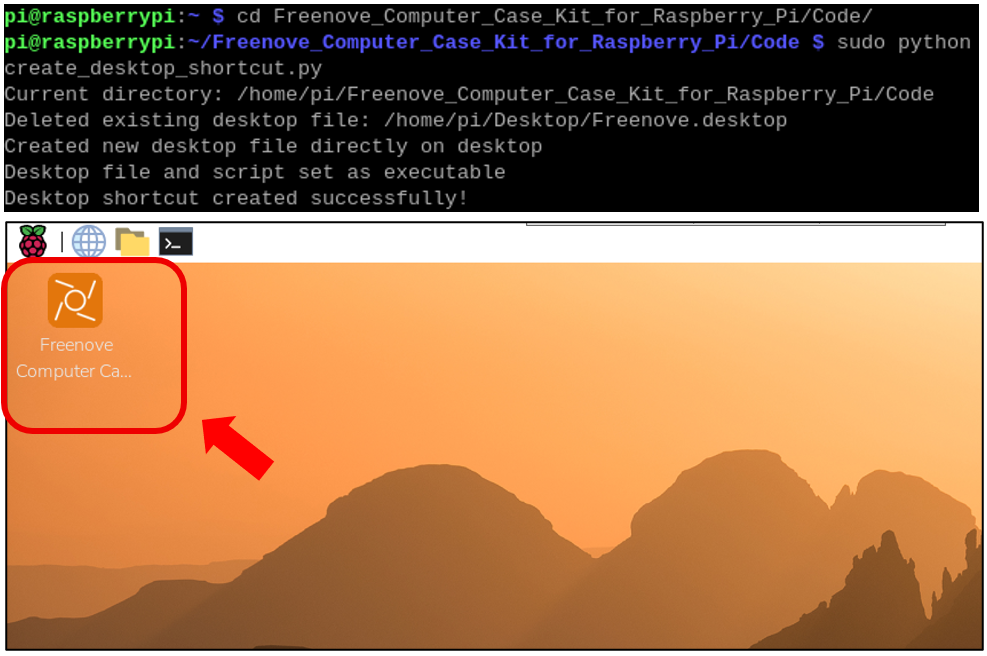
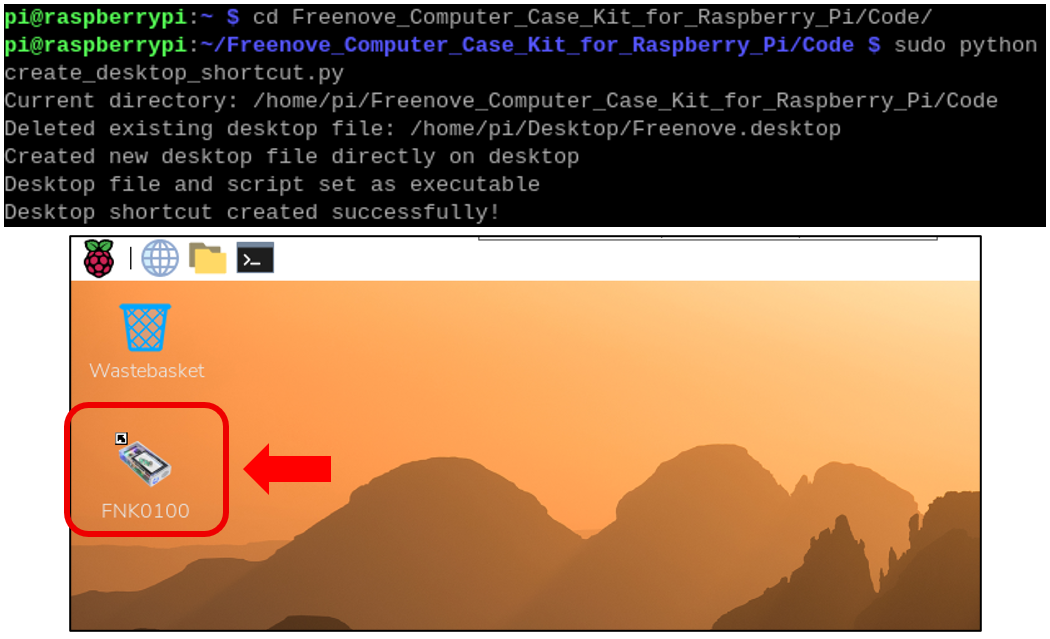
update 3_APP_Contrl

diff --git a/docs/source/fnk0100/codes/tutorial/3_APP_Control.rst b/docs/source/fnk0100/codes/tutorial/3_APP_Control.rst
@@ -117,7 +117,10 @@ In the pop-up Control Centre window, select "**Taskbar**" from the left pane. Fi
 Software Packages Update
 ============================================
 
-Run the following command on the terminal to update your Raspberry Pi's package list to the latest version.
+Run the following command on the terminal to update your Raspberry Pi's package list to the latest version. 
+
+In the latest Raspberry Pi 13 (Trixie), passwordless sudo is officially disabled. You will need to enter your user password every time you run a sudo command. Please enter your user password when prompted. (Note: The default password is "**raspberry**", please replace it with your user password.)
+
 
 .. code-block:: console
     
@@ -199,6 +202,16 @@ Run the following two commands one by one in the Raspberry Pi terminal to create
 
 :combo:`red font-bolder:Should you wish to modify the code, please ensure you back it up first to avoid potential software malfunctions caused by unintended changes.`
 
+The icon above corresponds to the command shown below.
+
+.. code-block:: console
+    
+    cd Freenove_Computer_Case_Kit_for_Raspberry_Pi
+    python app_ui.py
+
+.. image:: ../_static/imgs/3_APP_Control/Chapter03_90.png
+    :align: center
+
 3.2 About the Case Control Software
 ********************************************
 
@@ -211,10 +224,19 @@ Double click the software with Freenove logo on RPi's desktop, and a window will
 .. image:: ../_static/imgs/3_APP_Control/Chapter03_17.png
     :align: center
 
-The software interface is as shown below.
+Since passwordless sudo is disabled in Trixie, you will also be asked for your password again after reboot. Enter your user password in the pop-up terminal window.
 
-.. image:: ../_static/imgs/3_APP_Control/Chapter03_18.png
+.. image:: ../_static/imgs/3_APP_Control/Chapter03_92.png
     :align: center
+
+The software interface is shown below. The left window is the main software interface, and the right window displays debugging information.
+
+.. image:: ../_static/imgs/3_APP_Control/Chapter03_93.png
+    :align: center
+
+:combo:`red font-bolder:If you are interested in the code implementation, you can explore the files in the Freenove_Computer_Case_Kit_for_Raspberry_Pi/Code directory.`
+
+:combo:`red font-bolder:Should you wish to modify the code, please ensure you back it up first to avoid potential software malfunctions caused by unintended changes.`
 
 3.2.1 Dashboard Monitoring
 ====================================
@@ -267,7 +289,7 @@ It is set to rainbow mode by default, as shown below.
 
 There are four preset lighting modes available: **Rainbow**、 **Breathing**、 **Follow**、 **Manual**. You can select the corresponding option to switch among the modes.
 
-Note: Only in **Breathing**, **Follow**, and **Manual** modes can the color of the RGB lights be controlled using the slider below. In other modes, the color of the RGB lights cannot be adjusted. 
+Note: Only in **Breathing**, **Follow**, and **Manual** modes can the color of the RGB lights be controlled using the slider below. In other modes, the color of the RGB lights cannot be adjusted.
 
 .. image:: ../_static/imgs/3_APP_Control/Chapter03_22.png
     :align: center
@@ -568,12 +590,10 @@ This interface integrates advanced customization features, allowing you to edit 
 .. image:: ../_static/imgs/3_APP_Control/Chapter03_72.png
     :align: center
 
-Enable Terminal Display (For Debugging)
------------------------------------------------
+Disable Terminal Display & Disable sudo Password
+--------------------------------------------------
 
-Before getting started, we can configure a desktop shortcut to run the software with a visible terminal window. This will allow you to view debug messages and other code output.
-
-Steps:
+If you do not need to view the debugging information and want to close the command terminal window, follow the steps below.
 
 Open the terminal on your Raspberry Pi.
 
@@ -597,30 +617,23 @@ To revert to the default permissions, run the following command:
 .. image:: ../_static/imgs/3_APP_Control/Chapter03_74.png
     :align: center
 
-After modifying the permissions for Freenove.desktop, please follow these steps:
-
 1. Close the current upper-computer software completely.
 
 2. Double-click the Freenove software on the desktop to restart the application.
 
-3. In the pop-up window, click Open to launch the software.
+3. In the pop-up window, click **Open** to launch the software.
 
 .. image:: ../_static/imgs/3_APP_Control/Chapter03_75.png
     :align: center
 
-Change the parameter of **Terminal** from false to **ture**, save and clost the file.
+Change the parameter of **Terminal** from true to **false**, save and clost the file. Restart the software - the command terminal window will no longer open.
 
 .. image:: ../_static/imgs/3_APP_Control/Chapter03_76.png
     :align: center
 
-Double click Freenove software on the desktop, click "**Execute**" upon the pop-up window to launch it
+However, with the command terminal closed, you will have nowhere to enter your password when sudo is needed (because passwordless sudo is disabled by default in Trixie). To allow the software to run properly, you must enable passwordless sudo. To do this, open a terminal and run "**sudo raspi-config**", then select: “1 System Options” -> “S10 Admin Password” -> “No” -> “OK”.
 
-.. image:: ../_static/imgs/3_APP_Control/Chapter03_77.png
-    :align: center
-
-When you open the Freenove software control interface, a command terminal will automatically launch alongside it. All debug information and program logs will be displayed in this terminal window.
-
-.. image:: ../_static/imgs/3_APP_Control/Chapter03_78.png
+.. image:: ../_static/imgs/3_APP_Control/Chapter03_94.png
     :align: center
 
 Interface Configuration
